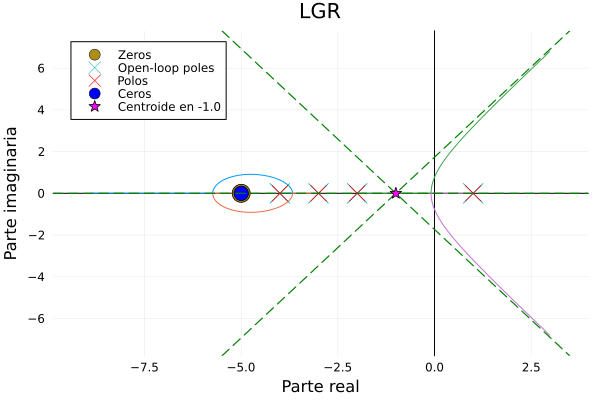
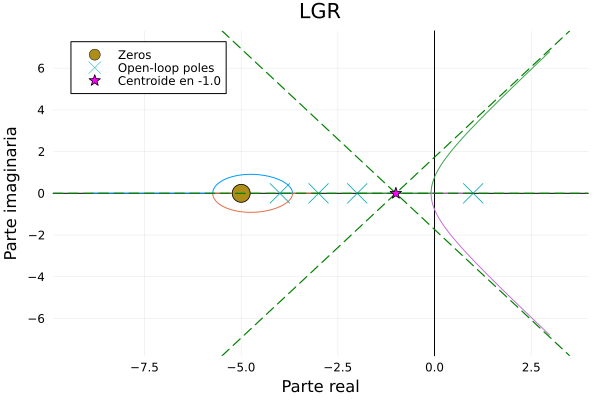
mas avances: reglas rlocus

diff --git a/reportes/cap5_06_clases_root_locus3rdOrder.md b/reportes/cap5_06_clases_root_locus3rdOrder.md
@@ -17,7 +17,7 @@ G(s) = \frac{s+5}{(s-1)(s+2)(s+3)(s+4)}
 \
 * Número de ceros: $m$=1 (en $s=−5$)
 \
-* Diferencia: n−m → tres asíntotas
+* Número de asíntotas $n−m$  ($4-1=3$ en este caso)
 
 El centroide o P.I.A. es:
 
@@ -47,32 +47,30 @@ P.I.A = \frac{(+1-2-3-4)-(-5)}{4 - 1} = \frac{-3}{3} = -1
 
 #### Resumen de las reglas del LGR
 
-Comprender las reglas del LGR permite visualizar el efecto de
-añadir o quitar un polo o un cero al sistema sin realizar calculos matematicos.
+\
 
-0. asdf
+* Un punto del eje real pertenece al LGR si el número de *polos y ceros* reales a su derecha es impar.
 
-1. El número de ramas del root locus es igual al número de polos del sistema en lazo abierto $n$.
-
-2. El root locus es simétrico *respecto al eje real*.
-
-3. Un punto del eje real pertenece al LGR si el número de *polos y ceros* reales a su derecha es impar.
-
-4. Puntos de inicio y fin ($k = 0$ y $k$ = $\infty$):
-
-    Cuando la ganancia $k$ = 0, las ramas inician en los polos.
-
-    Cuando la ganancia $k$ $\rightarrow$ $\infty$ , las ramas terminan en los ceros (si los hay) o se van al infinito siguiendo las asíntotas. (Los rayos de la rueda son el camino que siguen las ramas que no llegan a un cero).
+* Asíntota y trayectoria son dos cosas diferentes, pero a veces se superponen.
+El número de asíntotas ($n - m$) del LGR es igual a la diferencia entre el número de polos ($n$) y el número de ceros($m$)  del sistema en lazo abierto:
+    * Número de asíntotas = $n - m$ (si $n$ > $m$)
+    * Número de trayectorias = $n$ (número de polos)
 
 
+* Cada trayectoria del LGR comienza en un polo ($k=0$) y termina en un cero. Algunas trayectorias no tienen destino, entonces se van “lejos” $\rightarrow \infty$
+    * Polos $\rightarrow$ inicio
+    * Ceros $\rightarrow$ final
 
-Versión completa mental del LGR
+
+* El LGR es simétrico *respecto al eje real*. (Las raíces complejas siempre aparecen en pares conjugados). El LGR es espejo en el eje real.
+
+* Las asíntotas son *rayos* (líneas rectas punteadas) que parten del P.I.A. con ángulos fijos y equiespaciados (máxima separación angular posible). Guían las trayectorias del LGR que no terminan en ceros finitos, como "rieles" hacia el infinito cuando $k$ es muy grande.
+
+
+
 
 **Esqueleto completo**:
 
-Polos $\rightarrow$ inicio
-
-Ceros $\rightarrow$ final
 
 Eje real $\rightarrow$ regla de impares
 
